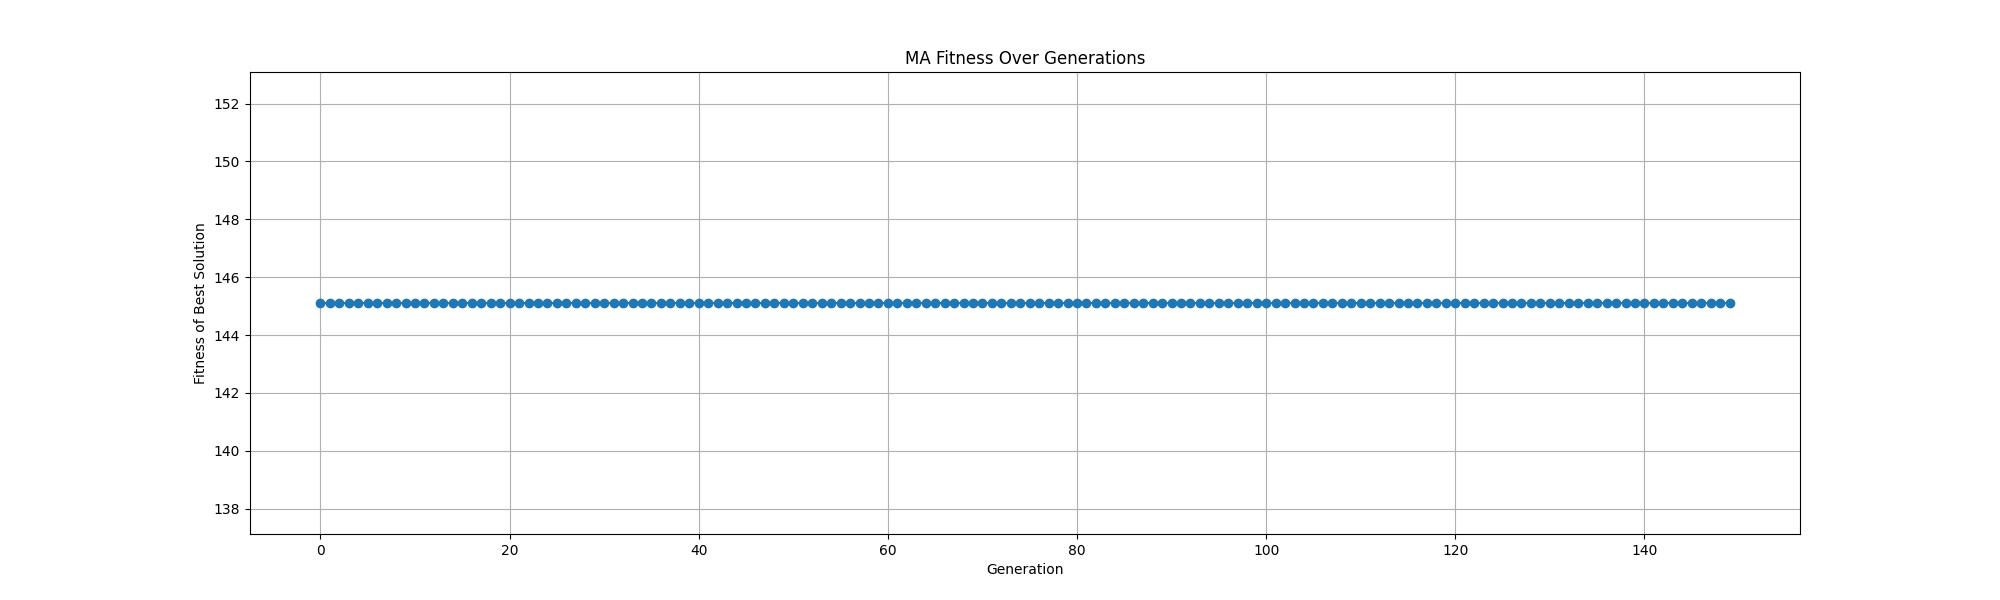
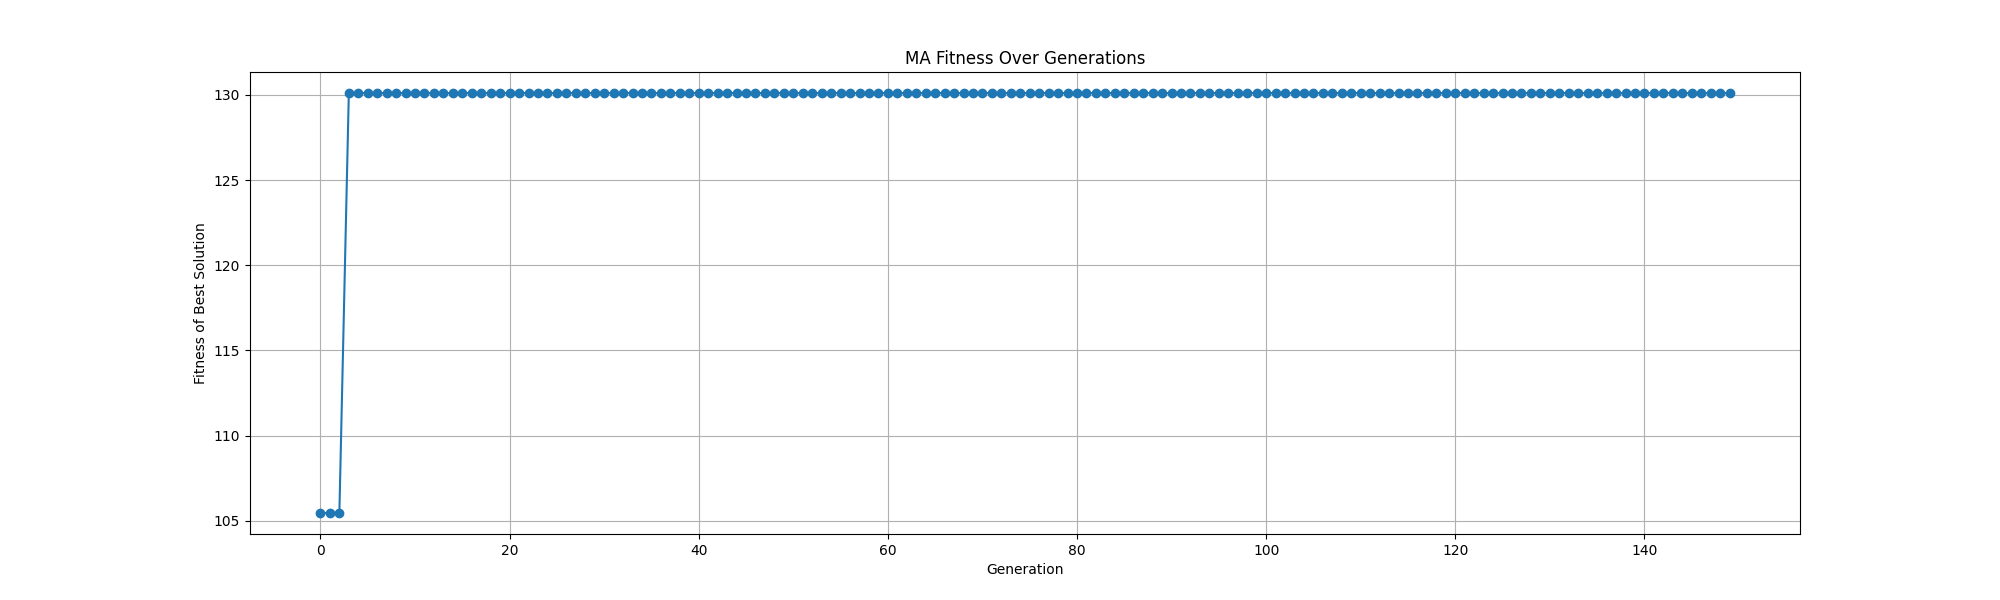
improved ma

diff --git a/ex5_4/ex5_4.py b/ex5_4/ex5_4.py
@@ -1,5 +1,7 @@
+import time
 import numpy as np
-from ex5_4.utils import two_opt
+from tqdm import tqdm
+from utils import two_opt
 from utils import (
     plot_fitness_over_generations_reduced,
     plot_tour_with_arrows_and_markers,
@@ -10,11 +12,11 @@ from utils import (
     progenitor_selection,
 )
 
-n_cities = 6
-n_population = 100
-mutation_rate = 0.3
-n_generations = 1500
-experiment_repeats = 10
+n_cities = 10
+n_population = 10  # Amount of routes in the the population set, the more the better (more likely to find the best solution)
+mutation_rate = 0.5  # The rate at which the population (routes) mutates
+n_generations = 1500  # The amount of generations the population will go through
+experiment_repeats = 10  # The amount of times the experiment will be repeated
 
 np.random.seed(42)
 coordinates_list = [
@@ -22,29 +24,61 @@ coordinates_list = [
     for x, y in zip(
         np.random.randint(0, 100, n_cities), np.random.randint(0, 100, n_cities)
     )
-]
+]  # Randomly generated coordinates for the cities
 names_list = np.array(
     [
-        "Amsterdam",
-        "Utrecht",
-        "Rotterdam",
-        "The Hague",
-        "Eindhoven",
-        "Tilburg",
-        "Groningen",
-        "Almere",
-        "Breda",
-        "Nijmegen",
-        "Enschede",
-        "Apeldoorn",
-        "Haarlem",
-        "Arnhem",
-        "Zaanstad",
-        "Amersfoort",
-        "s-Hertogenbosch",
-        "Haarlemmermeer",
-        "Zwolle",
-        "Leiden",
+        "A",
+        "B",
+        "C",
+        "D",
+        "E",
+        "F",
+        "G",
+        "H",
+        "I",
+        "J",
+        "K",
+        "L",
+        "M",
+        "N",
+        "O",
+        "P",
+        "Q",
+        "R",
+        "S",
+        "T",
+        "U",
+        "V",
+        "W",
+        "X",
+        "Y",
+        "Z",
+        "AA",
+        "AB",
+        "AC",
+        "AD",
+        "AE",
+        "AF",
+        "AG",
+        "AH",
+        "AI",
+        "AJ",
+        "AK",
+        "AL",
+        "AM",
+        "AN",
+        "AO",
+        "AP",
+        "AQ",
+        "AR",
+        "AS",
+        "AT",
+        "AU",
+        "AV",
+        "AW",
+        "AX",
+        "AY",
+        "AZ",
     ]
 )
 cities_dict = {x: y for x, y in zip(names_list, coordinates_list)}
@@ -60,14 +94,18 @@ def run_ex_5_4(use_ma):
         print(
             f"Experiment {experiment + 1}/{experiment_repeats} using {'MA' if use_ma else 'EA'}"
         )
-        print("Creating population set")
+        print("Creating population with random solutions")
         population_set = create_random_population_set(
             list(cities_dict.keys()), n_population
+        )
+        print(
+            "First solution in population set:",
+            *(f"{city} ->" for city in population_set[0]),
         )
         best_solution = [-1, np.inf, np.array([])]
         fitness_history = []
 
-        for generation in range(n_generations):
+        for generation in tqdm(range(n_generations), desc="Generations Progress", leave=False):
             fitnes_list = get_all_fitnes(
                 population_set, cities_dict, n_population, n_cities
             )
@@ -78,9 +116,11 @@ def run_ex_5_4(use_ma):
                     fitnes_list.min(),
                     population_set[np.argmin(fitnes_list)],
                 ]
+
             progenitor_list = progenitor_selection(population_set, fitnes_list)
             new_population_set = mate_population(progenitor_list)
             mutated_pop = mutate_population(new_population_set, mutation_rate, n_cities)
+
             if use_ma:
                 mutated_pop = [
                     two_opt(individual, cities_dict, n_cities)
@@ -95,7 +135,7 @@ def run_ex_5_4(use_ma):
             best_fitness_history = fitness_history
             best_overall_solution = best_solution[2]
 
-        print(f"Best solution in experiment {experiment + 1}: {best_solution[1]}")
+        print(f"\nBest solution in experiment {experiment + 1}: {best_solution[1]}")
 
     plot_fitness_over_generations_reduced(
         best_fitness_history,
@@ -112,8 +152,15 @@ def run_ex_5_4(use_ma):
     return np.mean(best_solutions), np.min(best_solutions)
 
 
+starttime_ea = time.time()
 mean_ea, best_ea = run_ex_5_4(use_ma=False)
+endtime_ea = time.time()
 mean_ma, best_ma = run_ex_5_4(use_ma=True)
+endtime_ma = time.time()
 
-print(f"Mean Best Fitness for EA: {mean_ea}, Best Fitness: {best_ea}")
-print(f"Mean Best Fitness MA: {mean_ma}, Best Fitness: {best_ma}")
+EA_time = endtime_ea - starttime_ea
+MA_time = endtime_ma - endtime_ea
+# print(f"Mean Best Fitness for EA: {mean_ea}, Best Fitness: {best_ea}, time taken: {EA_time}")
+print(
+    f"Mean Best Fitness MA: {mean_ma}, Best Fitness: {best_ma}, time taken: {MA_time}"
+)

diff --git a/ex5_4/utils.py b/ex5_4/utils.py
@@ -6,7 +6,7 @@ import numpy as np
 def plot_fitness_over_generations_reduced(
     fitness_history, title="Fitness Over Generations", n=10
 ):
-    plt.figure(figsize=(20, 6))
+    plt.figure(figsize=(40, 12))
 
     reduced_fitness_history = fitness_history[::n]
     plt.plot(reduced_fitness_history, marker="o", linestyle="-")
@@ -30,6 +30,7 @@ def plot_tour_with_arrows_and_markers(cities_dict, tour, title="Tour"):
     norm = np.sqrt(u**2 + v**2)
 
     plt.plot(x, y, "o-", mfc="r", zorder=1)
+    
     plt.quiver(
         pos_x,
         pos_y,
@@ -42,7 +43,6 @@ def plot_tour_with_arrows_and_markers(cities_dict, tour, title="Tour"):
     )
 
     plt.plot(x[0], y[0], "go", markersize=10, label="Start")
-    plt.plot(x[-2], y[-2], "rx", markersize=10, label="End")
 
     for i, city in enumerate(tour):
         plt.text(x[i], y[i], city)
@@ -57,10 +57,17 @@ def plot_tour_with_arrows_and_markers(cities_dict, tour, title="Tour"):
 def compute_city_distance_coordinates(a, b):
     return ((a[0] - b[0]) ** 2 + (a[1] - b[1]) ** 2) ** 0.5
 
+city_distance_cache = {}
 
 def compute_city_distance_names(city_a, city_b, cities_dict):
-    return compute_city_distance_coordinates(cities_dict[city_a], cities_dict[city_b])
-
+    sorted_cities = tuple(sorted([city_a, city_b]))
+    # Check if the distance calculation already exists in the cache
+    if sorted_cities in city_distance_cache:
+        return city_distance_cache[sorted_cities]
+    
+    distance = compute_city_distance_coordinates(cities_dict[city_a], cities_dict[city_b])
+    city_distance_cache[sorted_cities] = distance
+    return distance
 
 def create_random_population_set(city_list, n_population):
     population_set = []
@@ -150,14 +157,25 @@ def mutate_population(new_population_set, mutation_rate, n_cities):
 def two_opt(tour, cities_dict, n_cities):
     improvement = True
     tour = list(tour)
+    fitness_cache = {}
+
+    def fitness_eval_cached(tour):
+        tour_tuple = tuple(tour)
+        if tour_tuple in fitness_cache:
+            return fitness_cache[tour_tuple]
+        fitness = fitness_eval(tour, cities_dict, n_cities) # Assume this function exists and calculates total distance
+        fitness_cache[tour_tuple] = fitness
+        return fitness
+
     while improvement:
         improvement = False
         for i in range(1, len(tour) - 1):
             for j in range(i + 1, len(tour)):
-                new_tour = tour[:i] + list(reversed(tour[i : j + 1])) + tour[j + 1 :]
-                if fitness_eval(new_tour, cities_dict, n_cities) < fitness_eval(
-                    tour, cities_dict, n_cities
-                ):
+                new_tour = tour[:i] + list(reversed(tour[i:j + 1])) + tour[j + 1:]
+                if fitness_eval_cached(new_tour) < fitness_eval_cached(tour):
                     tour = new_tour
                     improvement = True
+                    break  # Break out of the inner loop once an improvement is found
+            if improvement:  # Break out of the outer loop to restart the process after an improvement
+                break
     return tour
